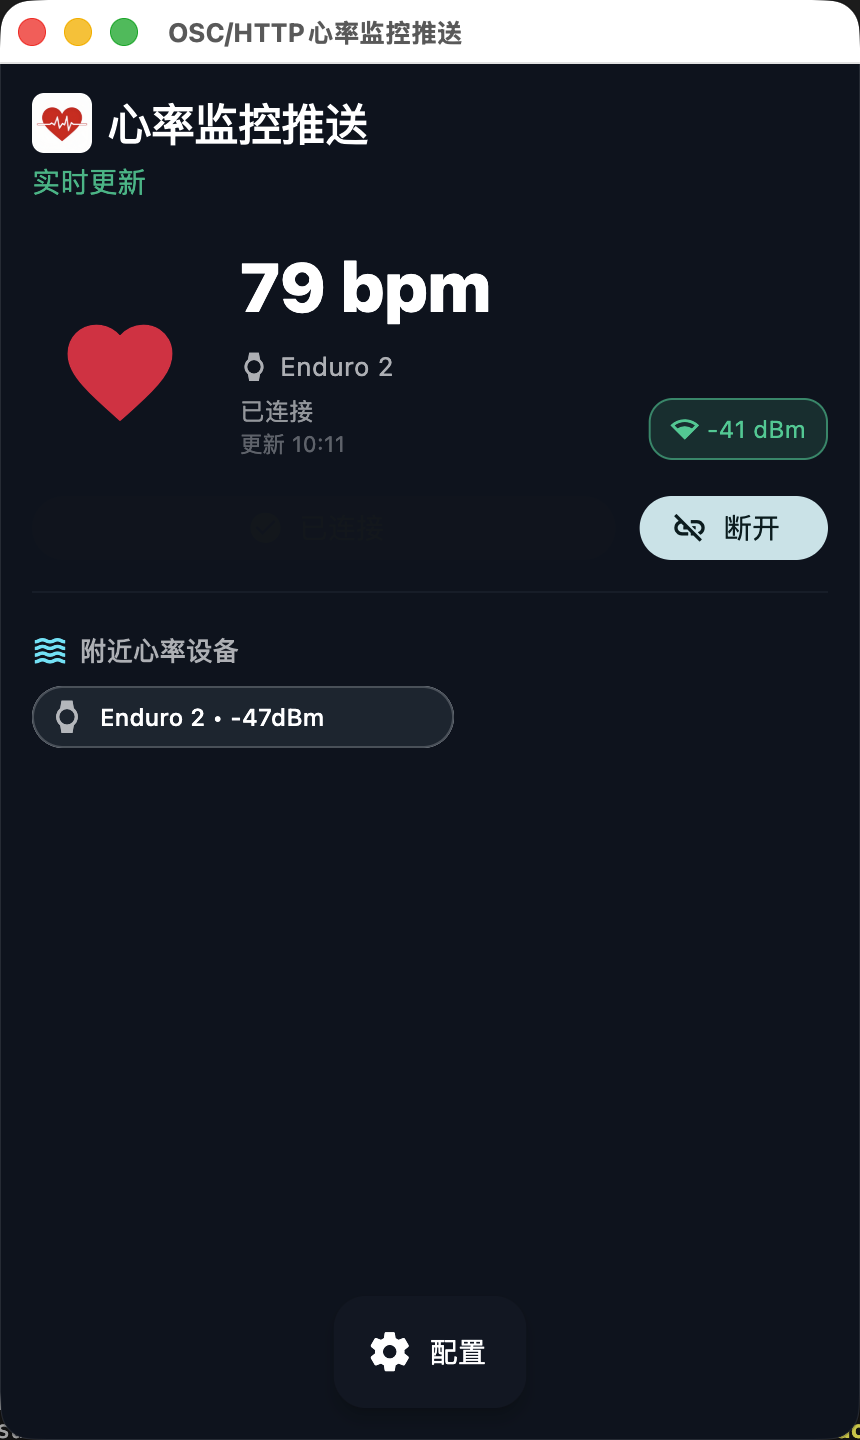
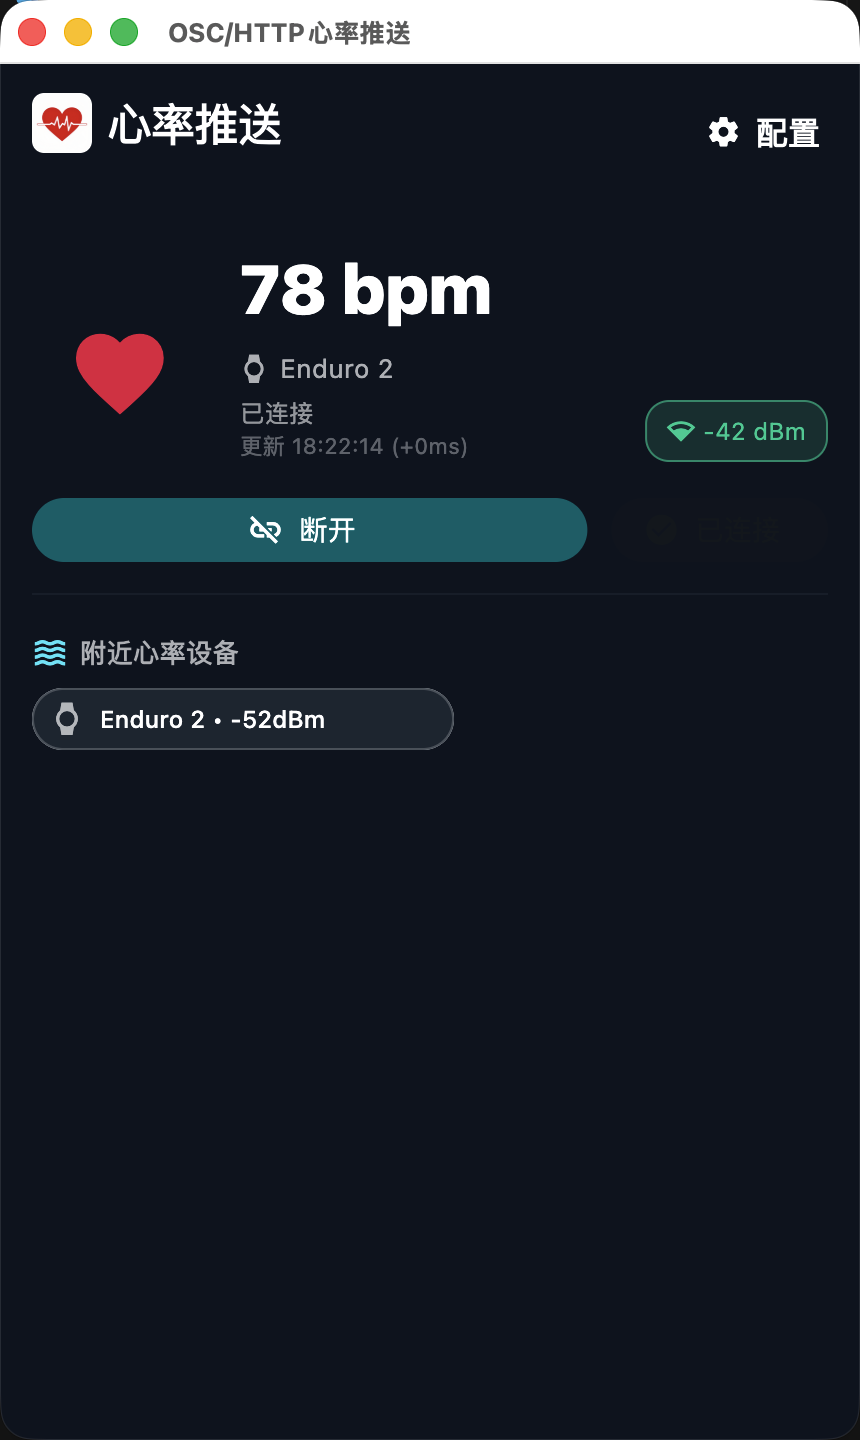
opt: refactor code structure for improved readability and maintainability

diff --git a/lib/main.dart b/lib/main.dart
@@ -33,7 +33,7 @@ Future<void> main() async {
       minimumSize: size,
       maximumSize: size,
       center: true,
-      title: 'OSC/HTTP心率监控推送',
+      title: 'OSC/HTTP心率推送',
       backgroundColor: Color(0xFF0B1220),
     );
     windowManager.waitUntilReadyToShow(options, () async {
@@ -54,7 +54,7 @@ class HrOscApp extends StatelessWidget {
       create: (_) => HeartRateManager()..start(),
       child: MaterialApp(
         debugShowCheckedModeBanner: false,
-        title: '心率监控推送',
+        title: '心率推送',
         theme: ThemeData(
           colorScheme: ColorScheme.fromSeed(seedColor: const Color(0xFF0FA3B1)),
           useMaterial3: true,
@@ -73,84 +73,99 @@ class HeartDashboard extends StatelessWidget {
   Widget build(BuildContext context) {
     return Scaffold(
       backgroundColor: const Color(0xFF0B1220),
-      floatingActionButtonLocation: FloatingActionButtonLocation.centerFloat,
-      floatingActionButton: const _SettingsFab(),
       body: SafeArea(
-        child: LayoutBuilder(
-          builder: (context, constraints) {
-            return SingleChildScrollView(
-              padding: const EdgeInsets.symmetric(
-                horizontal: 16,
-                vertical: 14,
-              ).copyWith(bottom: 96),
-              child: ConstrainedBox(
-                constraints: BoxConstraints(
-                  minHeight: constraints.maxHeight - 32,
-                ),
-                child: Column(
-                  crossAxisAlignment: CrossAxisAlignment.start,
-                  children: [
-                    Selector<HeartRateManager, (String, BluetoothAdapterState)>(
-                      selector: (_, mgr) => (mgr.status, mgr.adapterState),
-                      builder: (context, data, _) {
-                        return _Header(status: data.$1, adapterState: data.$2);
-                      },
+        child: Stack(
+          children: [
+            LayoutBuilder(
+              builder: (context, constraints) {
+                const contentPadding = EdgeInsets.symmetric(
+                  horizontal: 16,
+                  vertical: 14,
+                );
+                final minHeight =
+                    constraints.maxHeight > contentPadding.vertical
+                    ? constraints.maxHeight - contentPadding.vertical
+                    : 0.0;
+                return SingleChildScrollView(
+                  padding: contentPadding,
+                  physics: const ClampingScrollPhysics(),
+                  child: ConstrainedBox(
+                    constraints: BoxConstraints(minHeight: minHeight),
+                    child: Column(
+                      crossAxisAlignment: CrossAxisAlignment.start,
+                      children: [
+                        Selector<
+                          HeartRateManager,
+                          (String, BluetoothAdapterState)
+                        >(
+                          selector: (_, mgr) => (mgr.status, mgr.adapterState),
+                          builder: (context, data, _) {
+                            return _Header(
+                              status: data.$1,
+                              adapterState: data.$2,
+                            );
+                          },
+                        ),
+                        const SizedBox(height: 18),
+                        Selector<
+                          HeartRateManager,
+                          (
+                            int?,
+                            String,
+                            int?,
+                            BluetoothConnectionState,
+                            bool,
+                            bool,
+                            DateTime?,
+                            int?,
+                          )
+                        >(
+                          selector: (_, mgr) => (
+                            mgr.heartRate,
+                            mgr.connectedName.isEmpty
+                                ? '未连接'
+                                : mgr.connectedName,
+                            mgr.rssi,
+                            mgr.connectionState,
+                            mgr.isConnecting,
+                            mgr.isSubscribed,
+                            mgr.lastUpdated,
+                            mgr.lastIntervalMs,
+                          ),
+                          builder: (context, data, _) {
+                            return _HeartCard(
+                              bpm: data.$1,
+                              deviceName: data.$2,
+                              rssi: data.$3,
+                              state: data.$4,
+                              isConnecting: data.$5,
+                              isSubscribed: data.$6,
+                              lastUpdated: data.$7,
+                              intervalMs: data.$8,
+                            );
+                          },
+                        ),
+                        const SizedBox(height: 18),
+                        Consumer<HeartRateManager>(
+                          builder: (context, mgr, _) => _ControlsRow(mgr: mgr),
+                        ),
+                        const SizedBox(height: 12),
+                        Consumer<HeartRateManager>(
+                          builder: (context, mgr, _) => _NearbyList(mgr: mgr),
+                        ),
+                        const SizedBox(height: 10),
+                        Consumer<HeartRateManager>(
+                          builder: (context, mgr, _) => _DebugList(mgr: mgr),
+                        ),
+                        const SizedBox(height: 20),
+                      ],
                     ),
-                    const SizedBox(height: 18),
-                    Selector<
-                      HeartRateManager,
-                      (
-                        int?,
-                        String,
-                        int?,
-                        BluetoothConnectionState,
-                        bool,
-                        bool,
-                        DateTime?,
-                        int?,
-                      )
-                    >(
-                      selector: (_, mgr) => (
-                        mgr.heartRate,
-                        mgr.connectedName.isEmpty ? '未连接' : mgr.connectedName,
-                        mgr.rssi,
-                        mgr.connectionState,
-                        mgr.isConnecting,
-                        mgr.isSubscribed,
-                        mgr.lastUpdated,
-                        mgr.lastIntervalMs,
-                      ),
-                      builder: (context, data, _) {
-                        return _HeartCard(
-                          bpm: data.$1,
-                          deviceName: data.$2,
-                          rssi: data.$3,
-                          state: data.$4,
-                          isConnecting: data.$5,
-                          isSubscribed: data.$6,
-                          lastUpdated: data.$7,
-                          intervalMs: data.$8,
-                        );
-                      },
-                    ),
-                    const SizedBox(height: 18),
-                    Consumer<HeartRateManager>(
-                      builder: (context, mgr, _) => _ControlsRow(mgr: mgr),
-                    ),
-                    const SizedBox(height: 12),
-                    Consumer<HeartRateManager>(
-                      builder: (context, mgr, _) => _NearbyList(mgr: mgr),
-                    ),
-                    const SizedBox(height: 10),
-                    Consumer<HeartRateManager>(
-                      builder: (context, mgr, _) => _DebugList(mgr: mgr),
-                    ),
-                    const SizedBox(height: 20),
-                  ],
-                ),
-              ),
-            );
-          },
+                  ),
+                );
+              },
+            ),
+            Positioned(top: 14, right: 8, child: const _SettingsFab()),
+          ],
         ),
       ),
     );
@@ -162,11 +177,9 @@ class _SettingsFab extends StatelessWidget {
 
   @override
   Widget build(BuildContext context) {
-    return FloatingActionButton.extended(
-      backgroundColor: const Color(0xFF111827),
-      foregroundColor: Colors.white,
-      icon: const Icon(Icons.settings),
-      label: const Text('配置'),
+    return _TopActionButton(
+      icon: Icons.settings,
+      label: '配置',
       onPressed: () async {
         final mgr = context.read<HeartRateManager>();
         final updated = await Navigator.of(context).push<HeartRateSettings>(
@@ -178,6 +191,38 @@ class _SettingsFab extends StatelessWidget {
           await mgr.updateSettings(updated);
         }
       },
+    );
+  }
+}
+
+class _TopActionButton extends StatelessWidget {
+  const _TopActionButton({
+    required this.icon,
+    required this.label,
+    required this.onPressed,
+  });
+
+  final IconData icon;
+  final String label;
+  final VoidCallback onPressed;
+
+  @override
+  Widget build(BuildContext context) {
+    return TextButton.icon(
+      onPressed: onPressed,
+      style: TextButton.styleFrom(
+        foregroundColor: Colors.white,
+        padding: const EdgeInsets.symmetric(horizontal: 12, vertical: 10),
+        minimumSize: const Size(44, 44),
+        tapTargetSize: MaterialTapTargetSize.padded,
+        textStyle: const TextStyle(
+          fontSize: 16,
+          fontWeight: FontWeight.w600,
+          letterSpacing: -0.1,
+        ),
+      ),
+      icon: Icon(icon, size: 18),
+      label: Text(label),
     );
   }
 }
@@ -210,7 +255,7 @@ class _Header extends StatelessWidget {
             ),
             const SizedBox(width: 8),
             const Text(
-              '心率监控推送',
+              '心率推送',
               style: TextStyle(
                 color: Colors.white,
                 fontSize: 22,
@@ -890,23 +935,10 @@ class _SettingsPageState extends State<SettingsPage> {
         actions: [
           Padding(
             padding: const EdgeInsets.only(right: 8),
-            child: TextButton(
+            child: _TopActionButton(
+              icon: Icons.save_rounded,
+              label: '保存',
               onPressed: _onSave,
-              style: TextButton.styleFrom(
-                foregroundColor: const Color(0xFF0FA3B1),
-                padding: const EdgeInsets.symmetric(
-                  horizontal: 10,
-                  vertical: 8,
-                ),
-                minimumSize: Size.zero,
-                tapTargetSize: MaterialTapTargetSize.shrinkWrap,
-                textStyle: const TextStyle(
-                  fontSize: 16,
-                  fontWeight: FontWeight.w600,
-                  letterSpacing: -0.1,
-                ),
-              ),
-              child: const Text('保存'),
             ),
           ),
         ],
@@ -915,21 +947,29 @@ class _SettingsPageState extends State<SettingsPage> {
         child: ListView(
           padding: const EdgeInsets.all(16),
           children: [
-            _sectionTitle('推送地址'),
+            _sectionTitle('HTTP/WS 私有服务'),
             _buildTextField(
               controller: _pushCtrl,
+              label: '推送地址',
               hint: 'http:// 或 ws:// 开头',
               helper: '用于 HTTP / WebSocket 推送',
             ),
-            const SizedBox(height: 18),
-            _sectionTitle('OSC 地址'),
+            const SizedBox(height: 10),
+            _buildTextField(
+              controller: _intervalCtrl,
+              label: '推送/刷新间隔 (ms)',
+              hint: '默认 1000ms，过低可能影响性能',
+              keyboardType: TextInputType.number,
+            ),
+            const SizedBox(height: 20),
+            _sectionTitle('VRChat OSC'),
             _buildTextField(
               controller: _oscCtrl,
+              label: 'OSC 地址',
               hint: '例如 127.0.0.1:9000',
               helper: '目标主机与端口',
             ),
-            const SizedBox(height: 18),
-            _sectionTitle('OSC 参数路径'),
+            const SizedBox(height: 10),
             _buildTextField(
               controller: _oscConnectedCtrl,
               label: '心率在线状态',
@@ -947,22 +987,15 @@ class _SettingsPageState extends State<SettingsPage> {
               label: '心率百分比',
               hint: '/avatar/parameters/hr_percent',
             ),
-            const SizedBox(height: 18),
-            _sectionTitle('最大心率'),
+            const SizedBox(height: 10),
             _buildTextField(
               controller: _maxHrCtrl,
-              hint: '用于百分比计算，默认 200',
+              label: '最大心率（心率百分比 = 当前心率 / 最大心率 × 100）',
+              hint: '默认 200',
               keyboardType: TextInputType.number,
             ),
-            const SizedBox(height: 14),
-            _sectionTitle('推送/刷新间隔 (ms)'),
-            _buildTextField(
-              controller: _intervalCtrl,
-              hint: '默认 1000ms，过低可能影响性能',
-              keyboardType: TextInputType.number,
-            ),
-            const SizedBox(height: 18),
-            _sectionTitle('MQTT 推送'),
+            const SizedBox(height: 20),
+            _sectionTitle('MQTT 客户端'),
             _buildTextField(
               controller: _mqttBrokerCtrl,
               label: 'Broker 地址',
@@ -1014,8 +1047,8 @@ class _SettingsPageState extends State<SettingsPage> {
       child: Text(
         text,
         style: const TextStyle(
-          color: Colors.white70,
-          fontSize: 13,
+          color: Colors.white,
+          fontSize: 16,
           fontWeight: FontWeight.w700,
           letterSpacing: -0.1,
         ),

diff --git a/test/widget_test.dart b/test/widget_test.dart
@@ -13,7 +13,7 @@ void main() {
   testWidgets('Dashboard renders basic UI', (WidgetTester tester) async {
     await tester.pumpWidget(const HrOscApp());
 
-    expect(find.text('心率监控推送'), findsOneWidget);
+    expect(find.text('心率推送'), findsOneWidget);
     expect(find.text('附近心率设备'), findsOneWidget);
     expect(find.textContaining('扫描'), findsOneWidget);
 
